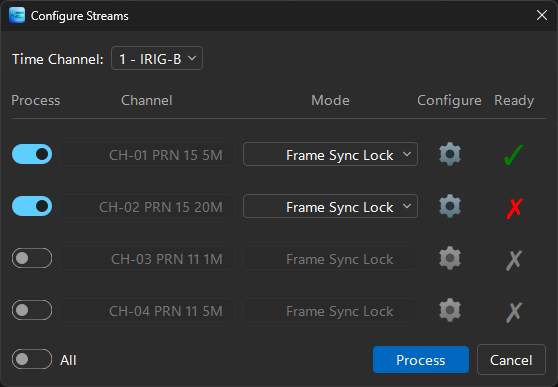
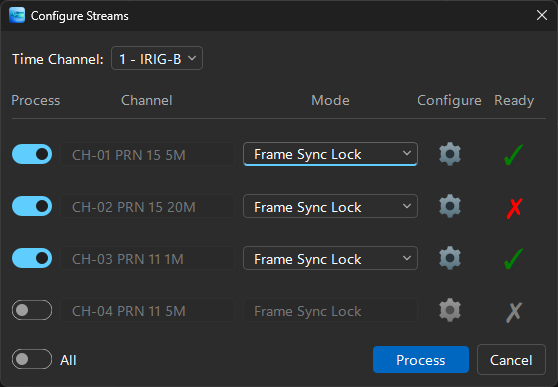
fix: colour the Batch Process Files status glyphs to match other dialogs (#83)
* fix: colour the Batch Process Files status glyphs to match other dialogs

The Configure Streams Ready column shows a green check or a red cross; the
Batch Process Files list prefixed a plain, uncoloured check/cross into each
row's text. Same information, two different visual languages.

Both now read their colours from UIConstants::kStatusOkColor /
kStatusFailColor / kStatusIdleColor, so the two dialogs cannot drift apart
again - the Ready column's literal "green"/"red"/"gray" strings were replaced
with the constants rather than leaving a second source of truth.

Two implementation notes worth keeping:

- Only the GLYPH is coloured, not the whole row, matching the Ready column. A
  QListWidgetItem renders plain text, so each row now carries a QLabel with the
  same span markup the Ready column uses.
- Rejected rows are made UNSELECTABLE rather than DISABLED. Qt greys a disabled
  item's contents regardless of any colour set on it, so leaving them disabled
  would have silently defeated the red glyph this change exists to produce - and
  it also greyed the rejection reason, which is the most useful text in the row.
  Nothing reads this list's selection, so the row is equally inert either way.

Verified in the running application rather than offscreen: the release build at
17:16 was captured at 17:18 as docs/manual_images/walk-batch-02-apply-dialog.png,
which shows the green check, the red cross, and a rejection reason that is now
legible instead of greyed.
[…]

diff --git a/UserManual.html b/UserManual.html
@@ -93,7 +93,7 @@ plots two data-quality metrics over time, per stream:</p>
 <h2 id="configure">2. Configuring streams</h2>
 <p>Each PCM channel row in the Configure Streams dialog has:</p>
 <figure>
[2 lines of base64/hex data omitted]
   <figcaption>The Configure Streams dialog. Each row is one PCM channel; the Ready column confirms a stream is fully configured before you press Process.</figcaption>
 </figure>
 

diff --git a/resources/usermanual.html b/resources/usermanual.html
@@ -93,7 +93,7 @@ plots two data-quality metrics over time, per stream:</p>
 <h2 id="configure">2. Configuring streams</h2>
 <p>Each PCM channel row in the Configure Streams dialog has:</p>
 <figure>
[2 lines of base64/hex data omitted]
   <figcaption>The Configure Streams dialog. Each row is one PCM channel; the Ready column confirms a stream is fully configured before you press Process.</figcaption>
 </figure>
 

diff --git a/src/view/streamconfigdialog.cpp b/src/view/streamconfigdialog.cpp
@@ -234,10 +234,15 @@ void StreamConfigDialog::buildTable()
             hl->addWidget(cell);
         }
 
-        // Channel label: right-justified and elided on the LEFT ("…RNRZ-L") so the
-        // END of a long TMATS-derived name — where the distinguishing detail (band,
-        // rate, code) usually sits — stays visible instead of the common prefix. The
-        // cell doesn't move; only the text alignment. Full name is in the tooltip.
+        // Channel label: left-justified, matching Mode and the rest of the dialog's
+        // inputs. Elision follows the alignment — ElideRight, so the text always runs
+        // from the cell's left edge and any "…" sits at the end where it is expected.
+        //
+        // This trades away something real: these names share a long common prefix
+        // ("CH-01 2250.5MHZ AGC …"), and the DISTINGUISHING detail (band, rate, code)
+        // is at the end, so a truncated long name now hides the part that tells two
+        // channels apart. Accepted deliberately — most names fit, right-aligned text
+        // read oddly for those, and the full name is always in the tooltip.
         // Styled (via the channelNameCell object name) to mimic the Mode combo
         // box's border/fill, so the two columns read as a matched pair.
         {
@@ -245,9 +250,9 @@ void StreamConfigDialog::buildTable()
             lbl->setObjectName("channelNameCell");
             lbl->setFixedWidth(kColWidthChannel);
             lbl->setFixedHeight(kFieldCellHeight);
-            lbl->setAlignment(Qt::AlignRight | Qt::AlignVCenter);
+            lbl->setAlignment(Qt::AlignLeft | Qt::AlignVCenter);
             lbl->setText(QFontMetrics(lbl->font()).elidedText(
-                cfg.label, Qt::ElideLeft, kColWidthChannel - kCellTextPadding));
+                cfg.label, Qt::ElideRight, kColWidthChannel - kCellTextPadding));
             lbl->setToolTip(cfg.label);
             lbl->setAutoFillBackground(false);
             // Read-only: the label just mimics a combo box's look for visual
@@ -272,7 +277,11 @@ void StreamConfigDialog::buildTable()
         w.mode->setToolTip("Analysis mode: Receiver SNR measures channel signal quality; Frame Sync Lock measures synchronization stability.");
         w.mode->setEditable(true);
         w.mode->lineEdit()->setReadOnly(true);
-        w.mode->lineEdit()->setAlignment(Qt::AlignRight | Qt::AlignVCenter);
+        // Left-aligned, like every other control in the dialog. It was right-aligned
+        // to keep it from crowding the Channel column, but that column is fixed-width
+        // and separated by the grid, so nothing was actually crowded - the text just
+        // sat oddly far from the label it belongs to.
+        w.mode->lineEdit()->setAlignment(Qt::AlignLeft | Qt::AlignVCenter);
         w.mode->lineEdit()->setCursor(Qt::ArrowCursor); // reads as a selector, not free text
         hl->addWidget(w.mode);
 
@@ -335,22 +344,22 @@ void StreamConfigDialog::updateReadyIcon(int row)
 
     if (!checked)
     {
-        w.readyLabel->setText(readyMarkup("gray", "✗"));
+        w.readyLabel->setText(readyMarkup(UIConstants::kStatusIdleColor, "✗"));
         w.readyLabel->setToolTip(QString());
     }
     else if (!w.gearConfirmed)
     {
-        w.readyLabel->setText(readyMarkup("red", "✗"));
+        w.readyLabel->setText(readyMarkup(UIConstants::kStatusFailColor, "✗"));
         w.readyLabel->setToolTip("Click the gear icon to configure this stream.");
     }
     else if (!w.frameSyncPattern.isEmpty())
     {
-        w.readyLabel->setText(readyMarkup("green", "✓"));
+        w.readyLabel->setText(readyMarkup(UIConstants::kStatusOkColor, "✓"));
         w.readyLabel->setToolTip(QString());
     }
     else
     {
-        w.readyLabel->setText(readyMarkup("red", "✗"));
+        w.readyLabel->setText(readyMarkup(UIConstants::kStatusFailColor, "✗"));
         w.readyLabel->setToolTip("A frame sync pattern is required.");
     }
 

diff --git a/tests/tst_streamconfigdialog.cpp b/tests/tst_streamconfigdialog.cpp
@@ -571,8 +571,13 @@ void TestStreamConfigDialog::channelLabelLongNameElidedWithFullTooltip()
 {
     // A long, TMATS-derived descriptive name (like "CH-01 2250.5MHZ AGC 800Kbps
     // RNRZ-L") is wider than the fixed channel column, so it must be elided rather
-    // than hard-clipped. Elision is on the LEFT so the END of the name (the
-    // distinguishing tail) stays visible; the tooltip keeps the full name.
+    // than hard-clipped. Elision follows the LEFT alignment - ElideRight - so the
+    // text runs from the cell's left edge and the ellipsis sits at the end.
+    //
+    // Note what this costs: the distinguishing detail in these names (band, rate,
+    // code) is at the END, so a truncated long name no longer shows the part that
+    // tells two channels apart. That is why the tooltip assertion below matters -
+    // it is now the ONLY place the full name is recoverable.
     const QString fullName = "CH-01 2250.5MHZ AGC 800Kbps RNRZ-L";
     StreamConfig cfg = makeConfig(fullName);
     QScopedPointer<StreamConfigDialog> dlg(makeDialog({cfg}));
@@ -584,8 +589,8 @@ void TestStreamConfigDialog::channelLabelLongNameElidedWithFullTooltip()
     QVERIFY(channelLabel != nullptr);
     QVERIFY(channelLabel->text() != fullName);
     QVERIFY(channelLabel->text().length() < fullName.length());
-    QVERIFY(channelLabel->text().startsWith(QChar(0x2026))); // Unicode ellipsis "…" at the FRONT
-    QVERIFY(channelLabel->text().endsWith("RNRZ-L"));        // the tail stays on screen
+    QVERIFY(channelLabel->text().endsWith(QChar(0x2026)));   // Unicode ellipsis "…" at the END
+    QVERIFY(channelLabel->text().startsWith("CH-01"));       // the head stays on screen
     QCOMPARE(channelLabel->toolTip(), fullName);
 }
 
@@ -639,7 +644,7 @@ void TestStreamConfigDialog::channelLabelHasComboBoxStyledObjectName()
     QCOMPARE(channelLabel->objectName(), QString("channelNameCell"));
 }
 
-void TestStreamConfigDialog::modeComboDisplaysTextRightJustified()
+void TestStreamConfigDialog::modeComboDisplaysTextLeftJustified()
 {
     // QComboBox has no built-in way to right-justify its closed-box text, so the
     // Mode combo is made editable with a read-only internal line edit, which IS
@@ -653,7 +658,10 @@ void TestStreamConfigDialog::modeComboDisplaysTextRightJustified()
     QVERIFY(mode->isEditable());
     QVERIFY(mode->lineEdit() != nullptr);
     QVERIFY(mode->lineEdit()->isReadOnly());
-    QCOMPARE(mode->lineEdit()->alignment(), Qt::Alignment(Qt::AlignRight | Qt::AlignVCenter));
+    // Left-aligned, matching the rest of the dialog's inputs. The editable+readonly
+    // conversion exists to control this alignment at all, so the assertion stays -
+    // it is what catches the line edit silently reverting to a plain combo.
+    QCOMPARE(mode->lineEdit()->alignment(), Qt::Alignment(Qt::AlignLeft | Qt::AlignVCenter));
 }
 
 void TestStreamConfigDialog::modeComboSelectionStillTracksIndexChange()

diff --git a/src/view/batchapplydialog.cpp b/src/view/batchapplydialog.cpp
@@ -57,15 +57,28 @@ void BatchApplyDialog::setUpLayout(const QList<FileEntry>& files)
     {
         const QString name = QFileInfo(f.filepath).fileName();
         auto* item = new QListWidgetItem(list);
-        if (f.ok)
+
+        // Colour only the glyph, matching the Configure Streams Ready column - a
+        // QListWidgetItem renders plain text, so the row carries a QLabel instead.
+        const QString glyph = f.ok ? QStringLiteral("✓") : QStringLiteral("✗");
+        const QString color = f.ok ? UIConstants::kStatusOkColor
+                                   : UIConstants::kStatusFailColor;
+        const QString trailer = f.ok ? QString() : tr("  —  %1").arg(f.reason);
+        auto* row = new QLabel(QString("<span style='color: %1;'>%2</span>  %3%4")
+                                   .arg(color, glyph, name.toHtmlEscaped(), trailer.toHtmlEscaped()),
+                               list);
+        row->setTextFormat(Qt::RichText);
+
+        // Rejected rows are made unselectable rather than DISABLED. Qt greys a
+        // disabled item's contents regardless of any colour set on it, so disabling
+        // would silently defeat the red glyph this exists to show. The row is inert
+        // either way - nothing reads this list's selection.
+        if (!f.ok)
         {
-            item->setText(QStringLiteral("✓  ") + name);
+            item->setFlags(item->flags() & ~Qt::ItemIsSelectable);
         }
-        else
-        {
-            item->setText(QStringLiteral("✗  ") + name + tr("  —  %1").arg(f.reason));
-            item->setFlags(item->flags() & ~Qt::ItemIsEnabled);
-        }
+        item->setSizeHint(row->sizeHint());
+        list->setItemWidget(item, row);
         item->setToolTip(f.filepath);
     }
     layout->addWidget(list);

diff --git a/include/constants.h b/include/constants.h
@@ -85,6 +85,16 @@ namespace UIConstants {
     inline constexpr const char* kSettingsKeyTheme  = "Theme";        ///< QSettings key for theme preference.
     inline constexpr const char* kSettingsKeyLastCh10Dir = "LastCh10Directory"; ///< QSettings key for last Ch10 file dialog directory.
     inline constexpr const char* kSettingsKeyLastTomlDir  = "LastTomlDirectory";  ///< QSettings key for last TOML file dialog directory.
+    /// @name Status glyph colours
+    /// Shared by every dialog that shows a pass/fail mark, so they cannot drift
+    /// apart: the Configure Streams Ready column and the Batch Process Files list
+    /// both read from here. Colour only — each dialog sizes its own glyph.
+    /// @{
+    inline constexpr const char* kStatusOkColor     = "green";        ///< Ready / matched.
+    inline constexpr const char* kStatusFailColor   = "red";          ///< Not ready / rejected.
+    inline constexpr const char* kStatusIdleColor   = "gray";         ///< Not applicable yet.
+    /// @}
+
     inline constexpr const char* kThemeDark         = "dark";         ///< Dark theme identifier.
     inline constexpr const char* kThemeLight        = "light";        ///< Light theme identifier.
     inline constexpr const char* kSettingsKeyRecentFiles = "RecentFiles"; ///< QSettings key for recent files list.

diff --git a/tests/tst_streamconfigdialog.h b/tests/tst_streamconfigdialog.h
@@ -58,7 +58,7 @@ private slots:
     // Channel name cell is styled (via object name) to mimic the Mode combo's
     // box, and the Mode combo's displayed text is right-justified.
     void channelLabelHasComboBoxStyledObjectName();
-    void modeComboDisplaysTextRightJustified();
+    void modeComboDisplaysTextLeftJustified();
     void modeComboSelectionStillTracksIndexChange();
 };
 

diff --git a/docs/claude.md b/docs/claude.md
@@ -402,6 +402,25 @@ The stories below follow the workflow a first-time user takes through the applic
 
 ### Unreleased — since the v2.9.3 tag
 
+#### Cosmetic
+
+- **Configure Streams: the Channel and Mode columns are left-justified.** Both were
+  right-justified — Mode so it "no longer crowds the Channel column", and Channel to
+  pair with left-side elision. With the short names most files produce, both simply
+  read as text pushed away from its label.
+  Channel's elision follows its alignment (`ElideRight`), which **costs something
+  real**: these names share a long common prefix and the distinguishing detail (band,
+  rate, code) sits at the end, so a truncated long name no longer shows the part that
+  tells two channels apart. Accepted deliberately; the tooltip is now the only place
+  the full name is recoverable, which is why the test asserts it.
+- **Batch Process Files: the status glyphs are green/red**, matching the Configure
+  Streams Ready column. Both read from `UIConstants::kStatusOkColor` /
+  `kStatusFailColor` / `kStatusIdleColor` so they cannot drift apart again.
+  Rejected rows are now *unselectable* rather than *disabled*: Qt greys a disabled
+  item regardless of any colour set on it, so leaving them disabled would have
+  silently defeated the red glyph — and it also greyed the rejection reason, the most
+  useful text in the row.
+
 #### Documentation delivery
 
 - **The user manual is now two artifacts generated from one source.** The *base*
@@ -814,11 +833,9 @@ keep the tag history aligned with `main`. The only change is to CI.
   `ProcessingProgressDialog`; primary-action/Cancel button order corrected to
   match WinUI 3 convention (primary left of Cancel) across `StreamConfigDialog`
   and its three sub-dialogs.
-- Channel column narrowed, right-justified with left-side elision (so the
-  distinguishing tail of a long TMATS name — band, rate, code — stays visible
-  instead of the common prefix), and styled to match the Mode combo box's
-  border/fill. Mode combo's closed-box text is right-justified so it no longer
-  crowds the Channel column.
+- Channel column narrowed and styled to match the Mode combo box's border/fill.
+  (Originally right-justified with left-side elision; both columns were changed to
+  left-justified afterwards — see Unreleased.)
 - The three per-stream sub-dialogs (Frame Sync Lock, Calibration, Receiver SNR)
   now share one layout vocabulary (spacing, grid geometry, icon-button sizing,
   a consistent text-left/buttons-centered alignment rule) so their
@@ -1457,7 +1474,7 @@ source/header files are listed in `tests/tests.pro`.
 - **TestPlotWidget** (`tst_plotwidget`) — Plot widget construction, null/valid ViewModel connection, dark/light theme application, the movable legend overlay populating from data (hidden until data loads, then one row per visible active-metric series), a shown/resized-window regression case asserting the overlay sizes correctly (not a collapsed frame-only box) after a second rebuild adds more rows — a QScrollArea `widgetResizable` sizeHint staleness bug reproduced and fixed post-review — the SNR legend row showing the short `"CH<id> <ch.name>"` form instead of the full TMATS stream title, the legend row layout reserving a right-side gutter matching the style's scrollbar extent, and each legend row carrying an objectName the overlay stylesheet can target to override the app's global `QWidget { background-color: ... }` theme rule (otherwise every row painted as an opaque chip); plus `exportImage()` writing a PNG/SVG/PDF headlessly (the parameterized image-export entry point extracted for batch apply); and the right-click context menu that replaced the external control rows: it lists every expected top-level item, its data-dependent entries are disabled until data loads, the Plot File submenu is disabled for a single source and switches `visibleSource` for a multi-source run, View Mode reflects and sets the active left-axis metric, `X Axis > Reset Span` / `Y Axes > Reset` clear the X window and both Y overrides, plus two structural guards - wheel-zoom/drag-pan stay enabled (horizontal-only) once data arrives, and **no QComboBox / QSpinBox / QLineEdit / QAbstractButton lives outside the chart** - on-chart overlays are allowed, external control rows are not (the machine-checkable form of "no external controls"); plus the legend toggle (shows/hides the overlay and survives a rebuild, appears only once data is loaded, is parented to the chart, and stays in sync with the context menu's checkable Show Legend item); plus Y axis occupancy - a lock-only plot hides the right axis, an SNR-only plot hides the left, an empty chart keeps the left (hiding both would leave a bare box), and hiding the last *visible* SNR series reclaims the right axis just as never loading one would
 - **TestTmChart** (`tst_tmchart`) - the first-party chart replacing QCustomPlot: series bookkeeping across removals and out-of-range access, mismatched x/y lengths truncated (a draw-time overrun), degenerate/non-finite ranges rejected, X and Y coordinate transforms round-tripping with the correct screen orientation, wheel zoom anchoring the value under the cursor and reporting the new range, interactions inert until enabled, and the shared `renderTo()` export path painting real content while omitting the crosshair/zoom-band overlays (cursor state, not data), and that hiding a Y axis reclaims its margin (the measurable consequence) while leaving the coordinate transforms consistent with the new plot area
 - **TestPlotCustomizationDialog** (`tst_plotcustomizationdialog`) — Customize Plot Series dialog: one Frame Sync Lock checkbox per stream, Select All/None, apply → per-stream lock/missed visibility round-trip to the ViewModel; Receiver SNR tree build (receiver grouping), tri-state group cascade, Select All/None, apply → per-channel SNR visibility round-trip, and the Expand/Collapse All button toggle; plus per-stream rename/recolor (lock tab) and per-channel rename/recolor via pending item roles (SNR tab) applied to the ViewModel on OK, and the single batched `seriesAppearanceChanged` emission (reaches private widgets/slots via a friend declaration, same pattern as TestFrameProcessor)
-- **TestStreamConfigDialog** (`tst_streamconfigdialog`) — Per-stream Configure Streams dialog: stream rows, mode selection, gear setup dialogs, TOML load/save round-trips, "Apply to all" fan-out, the Channel column label (short names shown in full, long TMATS-derived names elided on the left with "..." so the distinguishing tail stays visible, right-justified, styled via `channelNameCell` to mimic the Mode combo box's border/fill, and the full name always available via tooltip), the Mode combo's right-justified closed-box text (via an editable-but-readonly internal line edit) while selection still tracks correctly, and the table header/separator using theme-QSS object names (`streamHeaderLabel` / `streamHeaderSeparator`) rather than hard-coded inline colors
+- **TestStreamConfigDialog** (`tst_streamconfigdialog`) — Per-stream Configure Streams dialog: stream rows, mode selection, gear setup dialogs, TOML load/save round-trips, "Apply to all" fan-out, the Channel column label (short names shown in full, long TMATS-derived names elided on the right with "..." , left-justified, styled via `channelNameCell` to mimic the Mode combo box's border/fill, and the full name always available via tooltip — which is now the only place a truncated name is recoverable), the Mode combo's left-justified closed-box text (via an editable-but-readonly internal line edit) while selection still tracks correctly, and the table header/separator using theme-QSS object names (`streamHeaderLabel` / `streamHeaderSeparator`) rather than hard-coded inline colors
 - **TestExportDialog** (`tst_exportdialog`) — Export dialog checkbox-to-field enable logic, export-button validation, and the log-export row defaults/accessors and log-only validation
 - **TestStepDetector** (`tst_stepdetector`) — Non-linear calibration (US5.3): `[[Step]]` TOML parsing (valid / empty-fails), plateau detection (clean, too-few-fails, extra-plateaus uses last of monotonic run, short-blip doesn't steal a pairing slot, long leading transient doesn't shift pairing, inverted-polarity sweep not reversed, non-monotonic pairing rejected, noisy, settling-at-plateau-start excluded, round-trip exact), and `interpolateCalibration()` (midpoint, below/above clamping, coincident-raw guard)
 - **TestSeriesColumnSchema** (`tst_seriescolumnschema`) — the CSV column-header schema (`SeriesColumnSchema`): SNR name and `columnHeader()` formatting, `parseColumnHeader()` classification (lock/missed suffix vs. SNR `"<id> - "` prefix, multi-word stream labels split at the last space, SNR-shape-wins-over-suffix), the unknown→SNR fallback, and the format→parse round trip that keeps `exportCsv` and `CsvSeriesParser` inverses. Multi-file input: source 0 stays unqualified (byte-identical), source 1+ gets a leading `"S<n>| "` qualifier that round-trips through parse for both SNR and Lock/Missed shapes, an unqualified header still defaults to source 0, and a header merely starting with the letter `'S'` isn't misparsed as a qualifier

diff --git a/docs/future_plans/comprehensive-user-manual.md b/docs/future_plans/comprehensive-user-manual.md
@@ -1,8 +1,7 @@
 # Comprehensive, task-oriented user manual
 
 **Status:** scoped. Tooling and the installer option are built (PR #78, unreleased).
-Capture in progress: **17 of 23 done** (batches A and B complete, including the whole
-calibration set); 6 remain.
+**All 23 captures are done.** The remaining work is the writing.
 
 ## The problem
 
@@ -65,6 +64,60 @@ inverted-polarity receivers, and channels whose plateau count does not match the
 step count. Those are what Clip Start/End exist for, and a user who has not been told will
 read a fallback channel as a bug.
 
+## A third gap: import & export
+
+The whole **Import & export** section is *two bullets*. It names the three outputs and stops,
+which leaves the questions people actually have unanswered - above all **what is in each
+exported thing**.
+
+**Readout is fine and needs no work.** It already explains nearest-vs-pinned, the `(pinned)`
+marker and the revert-to-automatic fallback, in both the context-menu list and "Reading values
+off the plot". Checked before assuming otherwise.
+
+### Each exported item, and what it contains
+
+- **Plot image** - PNG, SVG or PDF (the format follows the filename's extension; PNG if
+  omitted). It reflects **what you see**: hidden series are absent, and a hidden legend is
+  left out. A visible legend is composited in at the position you dragged it to.
+- **Data (CSV)** - a `Time (DOY:HH:MM:SS.mmm)` column followed by one column per series.
+  Column headers are self-describing (`Ch 13 L_RCVR1`, and lock/missed-frames columns carry
+  their metric so a stream's two series do not collide). Multi-file runs prefix `S<n>| ` to
+  columns from the second source onward.
+- **Log (text)** - the log pane's contents verbatim, including the processing summary and any
+  warnings or errors. Useful to attach to a report about a questionable recording.
+
+### The asymmetry that will surprise people
+
+**The image respects visibility; the CSV does not.** `PlotViewModel::exportCsv` walks every
+series and filters only by source - never by `visible` or `effectiveVisible`. So a CSV
+contains:
+
+- series you hid in Customize View, and
+- **both** frame-sync metrics (lock % *and* accumulated missed frames), even though the plot
+  only ever shows one at a time.
+
+Neither is a bug - the CSV is the data set, the image is the picture - but a user who hides
+40 of 48 channels and exports expects 8 columns and gets 48. It must be stated in both
+directions: hiding tidies the *picture*, not the *data*.
+
+### Import, and the round trip
+
+- Import accepts **this application's own export format only**. A CSV with a wrong or missing
+  `Time (DOY:HH:MM:SS.mmm)` header, or the legacy `Day,Time,...` layout, is rejected with a
+  log message rather than drawn as garbage. Malformed rows are skipped and the count
+  reported.
+- Export then import is a **round trip**: `SeriesColumnSchema` builds and parses the same
+  headers, so metric type, receiver and channel identity survive, and the reloaded plot
+  colours and groups the series as before. Worth stating plainly - it is the reason to export
+  CSV rather than screenshot a plot.
+- Import bypasses processing entirely, which is the point: revisiting an old result costs
+  seconds instead of re-reading a multi-gigabyte recording.
+
+### Figures
+
+No new captures needed. The existing **Export Dialog** figure shows the three switches and
+their filename fields, which is exactly what this section describes.
+
 ## Screenshots needed
 
 Capture in **one sitting** - the trickle approach cost several rounds during v2.9.1/2.9.2.
@@ -75,8 +128,13 @@ than written from memory, because the first draft missed several whole surfaces 
 Plot Series*, the hamburger menu, *Set Time Window*, error reporting and the light theme were
 all absent. Existing figures are reused where they still depict the current UI.
 
-**23 captures** (24 planned, one dropped as redundant - see the calibration group), of which
-**17 are done** and 6 remain. Plus 7 existing figures reused.
+**23 captures** (24 planned, one dropped as redundant - see the calibration group), and **all
+23 are captured**. Plus 7 existing figures reused.
+
+Three figures were re-taken after the fact because a UI change invalidated them - the
+Configure Streams left-justification affected `walk-fs-02`, `walk-snr-01` and the *shipped*
+`Config Streams Dialg.png`. Worth remembering when the walkthroughs are written: **changing
+the UI invalidates its own figures**, and the shipped ones are the easiest to forget.
 
 Batches A and B are complete: the frame-sync walkthrough, application shell, light theme,
 installer, the SNR walkthrough and the whole calibration set. The 6 outstanding are batch
